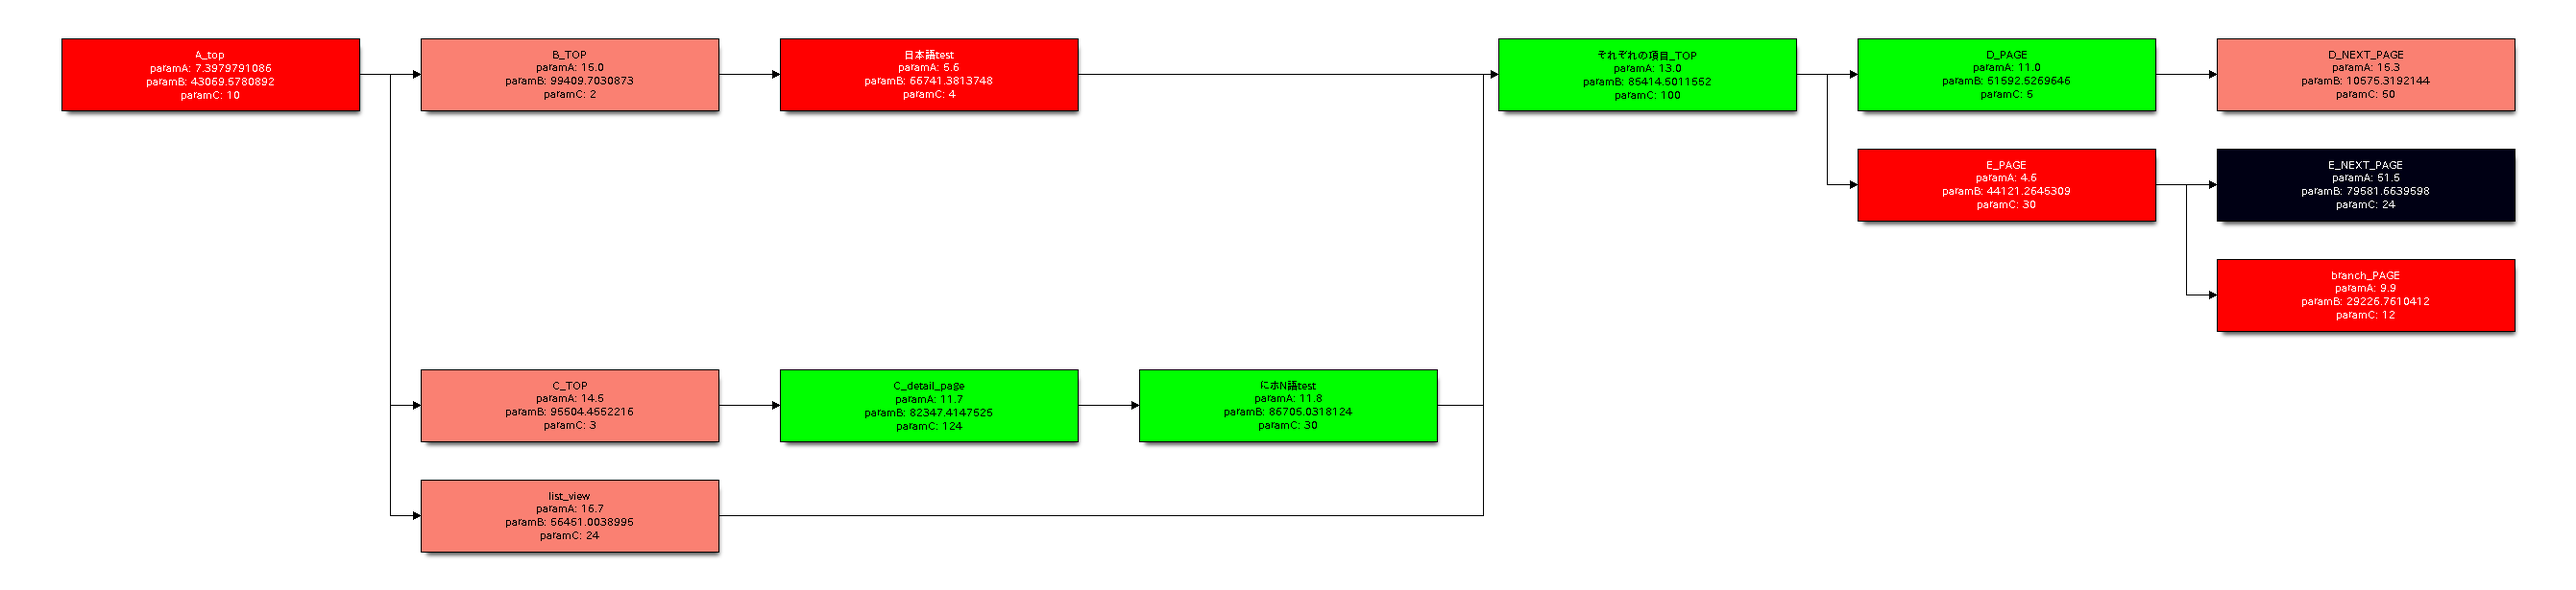
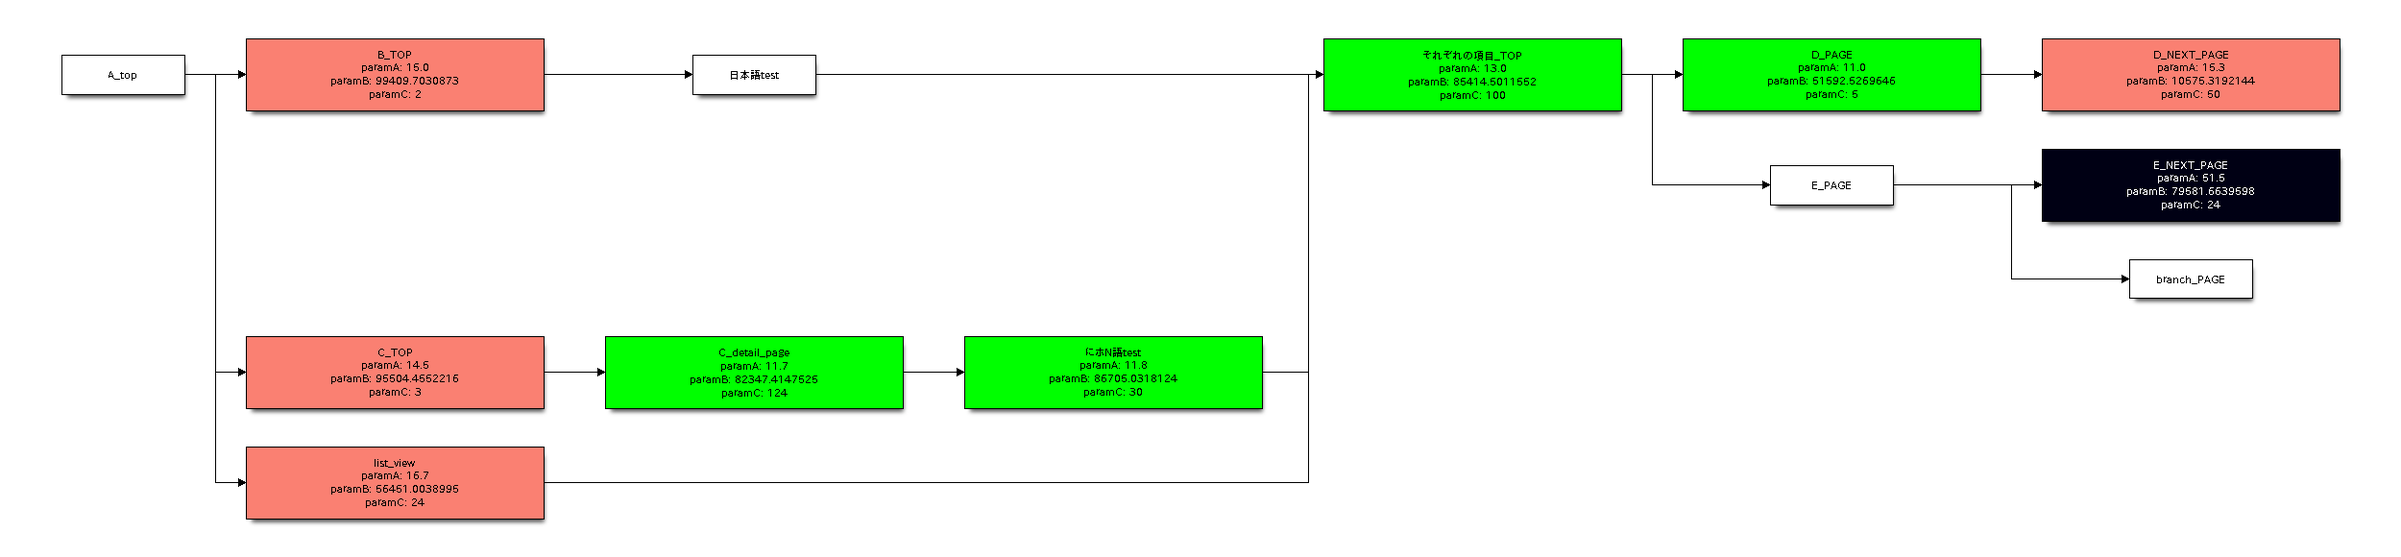
[add] selectorError, not colored warning

Changed region(s): [[0.0, 0.0621, 0.9984, 0.2172], [0.0936, 0.5897, 0.5616, 0.9621], [0.7176, 0.2483, 0.9984, 0.5897]]

diff --git a/g2g.py b/g2g.py
@@ -199,8 +199,10 @@ et
         method = dic["selector"]["method"]
         values = dic["selector"]["values"]
         if(method in selector_method_dict):
-            selected_row = selector_method_dict[method](df_node, column_name, values)
-            print(selected_row)
+            try:
+                selected_row = selector_method_dict[method](df_node, column_name, values)
+            except BaseException as e:
+                raise BaseException(e)
 
         if "color_map" in dic:
             color_map = dic["color_map"]["name"]
@@ -270,7 +272,11 @@ def to_diag(output_filename:str, edge_filename:str, df_node:pd.DataFrame, name_c
 
     # node information
     for key, row in df_node.iterrows():
-        node_color = name_color_dict[row["名前"]]
+        try:
+            node_color = name_color_dict[row["名前"]]
+        except KeyError as e:
+            print("Warning: " + row["名前"] + " is not colored. this node will be white")
+            continue
         text_color = "#000000" if int(node_color[1:3], 16)*0.299 + int(node_color[3:5], 16)*0.587 + int(node_color[5:7], 16)*0.114 > 127 else "#FFFFFF"
         output.append(row["名前"] + "[label=\"" + row["label"] + "\", color=\"" + node_color + "\", textcolor=\"" + text_color + "\",height="+str(height)+",width="+str(width)+"];\n");
 
@@ -304,13 +310,20 @@ def min_max(df_node, column_name, values):
     mini = df_node[column_name].min()
     maxi = df_node[column_name].max()
 
-    if values[0][-3:] == "per":
-        values[0] = (maxi - mini)*float(values[0][:-3])/100.0 + mini
-    if values[0] != "": left = float(values[0])
+    try:
+        if values[0][-3:] == "per":
+            values[0] = (maxi - mini)*float(values[0][:-3])/100.0 + mini
+        if values[0] != "": left = float(values[0])
+    except ValueError as e:
+        raise ValueError("MINMAX exception \"" + values[0] + "\" is not float value. please input number or number+\"per\"")
 
-    if values[1][-3:] == "per":
-        values[1] = (maxi - mini)*float(values[1][:-3])/100.0 + mini
-    if values[1] != "": right = float(values[1])
+    try:
+        if values[1][-3:] == "per":
+            values[1] = (maxi - mini)*float(values[1][:-3])/100.0 + mini
+        if values[1] != "": right = float(values[1])
+    except ValueError as e:
+        raise ValueError("MINMAX exception \"" + values[1] + "\" is not float value. please input number or number+\"per\"")
+
     if(left != ""): selected_row = selected_row[left <= selected_row[column_name]]
     if(right != ""): selected_row = selected_row[right > selected_row[column_name]]
     return selected_row
@@ -328,7 +341,11 @@ if __name__ == '__main__':
     selector_color_dicts = get_selector_color_dicts(df_color, default_selector_method_dict)
     print(selector_color_dicts)
     # row name:color dict
-    name_color_dict = get_name_color_dict(df_node,df_color.columns[0],default_selector_method_dict, selector_color_dicts)
+    try:
+        name_color_dict = get_name_color_dict(df_node,df_color.columns[0],default_selector_method_dict, selector_color_dicts)
+    except BaseException as e:
+        print("Error: " + str(e))
+        exit(1)
     # output file
     to_diag("sample/out.diag", "sample/map.diag", df_node, name_color_dict)
     blockdiag_main(["-Tpdf", "sample/out.diag"]) # output pdf
